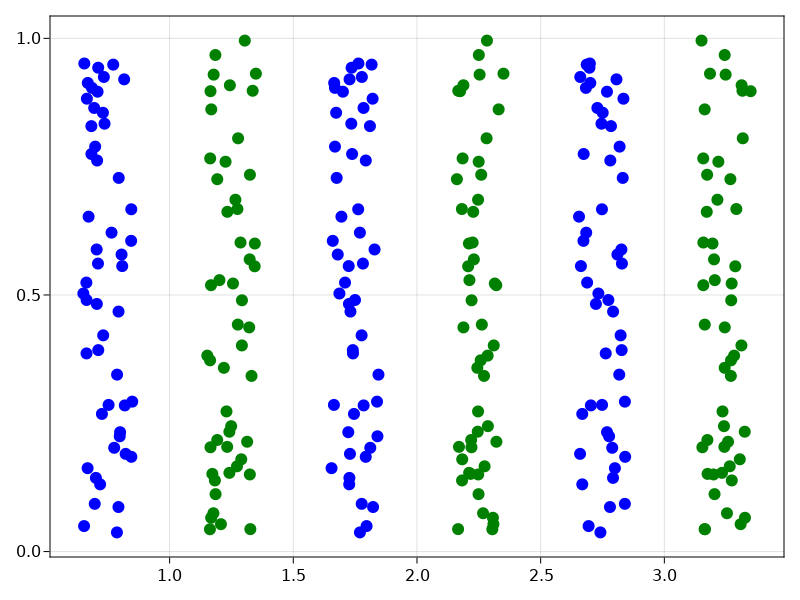
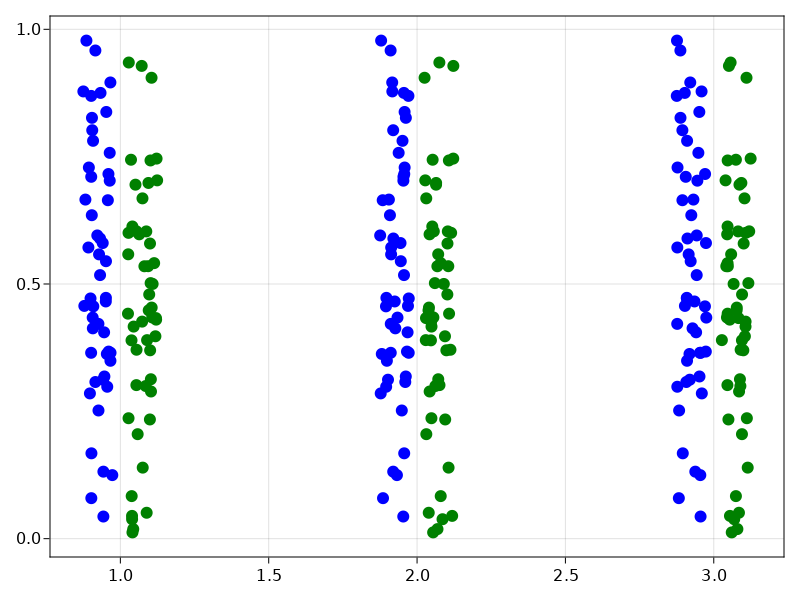
revise functions and figures

diff --git a/README.md b/README.md
@@ -34,7 +34,7 @@ dodge_group = repeat(1:2, outer =150);
 dodge_color = [:blue, :green];
 f = Figure();
 ax = Axis(f[1, 1]);
-jitterplot!(x, y, 0.2, dodge_group = dodge_group, dodge_color = dodge_color, markersize = 12);
+jitterplot!(x, y, 0.1, gap_jit = 0.3, dodge_group = dodge_group, dodge_color = dodge_color, markersize = 12);
 f
 ```
 <p align="center">
